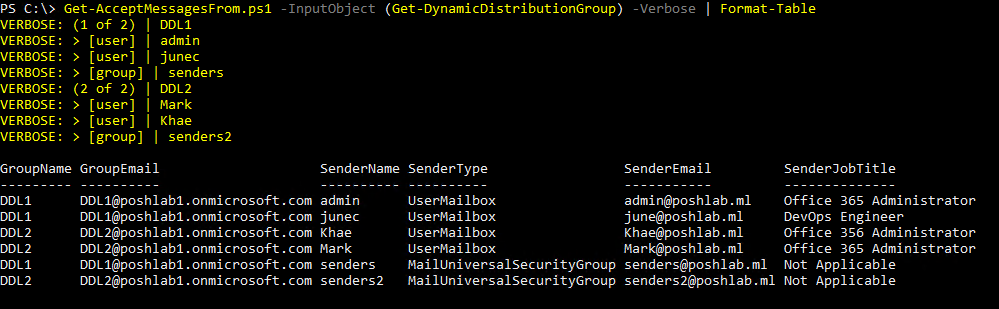
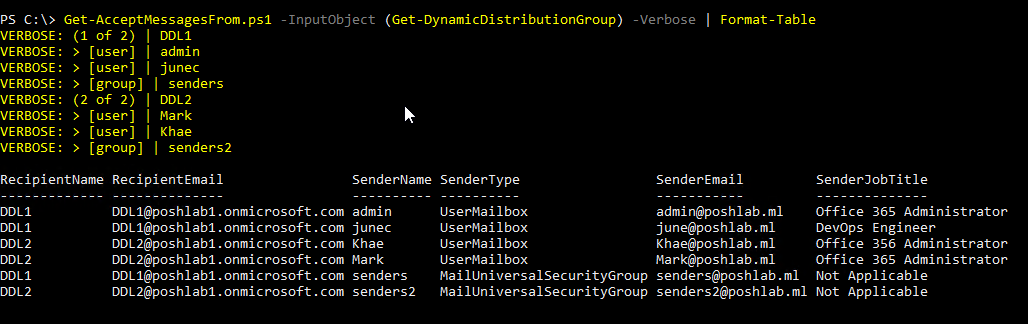
update

Changed region(s): [[0.0, 0.5243, 0.993, 0.932], [0.0, 0.0, 0.8068, 0.4951], [0.3724, 0.3204, 0.4034, 0.3786]]

diff --git a/README.md b/README.md
@@ -15,15 +15,64 @@ Get-AcceptMessagesFrom.ps1 [-InputObject] <Object> [-ExpandGroups] [-Unique <boo
 
 ### Example 1
 
-Get all accepted senders of all dynamic distribution groups. The output shows the groups as members (not expanded)
+Get all accepted senders of all dynamic distribution groups. Get all accepted senders of all dynamic distribution groups
 
 ```PowerShell
 .\Get-AcceptMessagesFrom.ps1 -InputObject (Get-DynamicDistributionGroup DDL1) -verbose
 ```
 
-![](https://github.com/junecastillote/Get-AcceptMessagesFrom/blob/master/images/Example1.png)
-
-![](https://github.com/junecastillote/Get-AcceptMessagesFrom/blob/master/images/Example1.png)
+![Example 1](https://github.com/junecastillote/Get-AcceptMessagesFrom/blob/master/images/Example1.png)
 
 ### Example 2
 
+Get all accepted senders of all dynamic distribution groups. Groups are expanded and only shows members.
+
+```PowerShell
+.\Get-AcceptMessagesFrom.ps1 -InputObject (Get-DynamicDistributionGroup) -Verbose -ExpandGroups | Format-Table
+```
+
+![Example 2](https://github.com/junecastillote/Get-AcceptMessagesFrom/blob/master/images/Example2.png)
+
+## Parameters
+
+### -InputObject
+
+Exchange Recipient Objects (Mailbox, Groups, Contacts)
+
+```yaml
+Type: Object
+Required: True
+Default value: None
+Accept pipeline input: False
+```
+
+### -ExpandGroups
+
+Switch to instruct the script to expand members that are groups (recursive)
+
+```yaml
+Type: Switch
+Required: False
+Default value: None
+Accept pipeline input: False
+```
+
+### -Unique
+
+Boolean value whether or not to return unique values only. For example, a sender may be a member of nested groups and may appear more than once. By default, only unique values are returned.
+
+```yaml
+Type: Boolean
+Required: False
+Default value: True
+Accept pipeline input: False
+```
+
+## Properties
+
+* RecipientName
+* RecipientEmail
+* SenderName
+* SenderEmail
+* SenderType
+* SenderJobTitle
